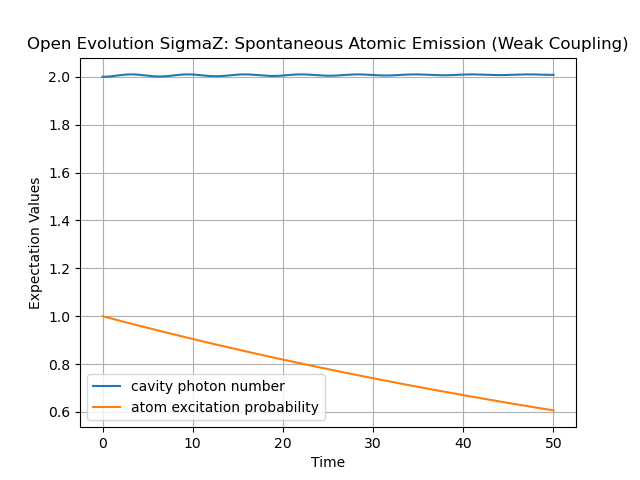
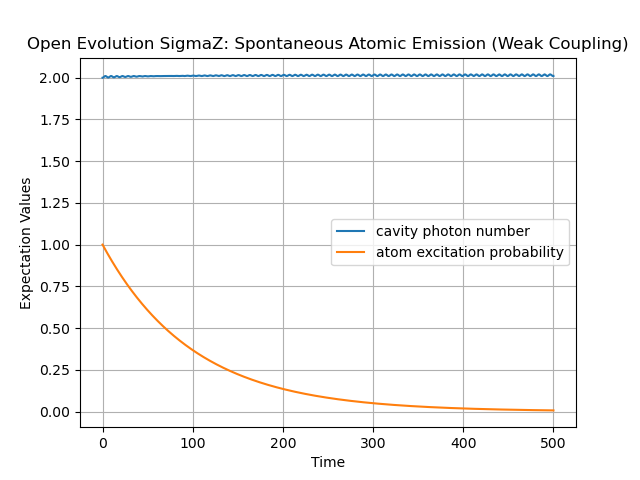
Correctly adds coherence measures to open sigma_z Hamiltonian simulation.

diff --git a/Research Project/Code/SigZ_Open.py b/Research Project/Code/SigZ_Open.py
@@ -5,7 +5,7 @@ import numpy as np
 
 ############################## SETUP ######################################
 
-tlist = np.linspace(0.0, 50.0, 2000)
+tlist = np.linspace(0.0, 500.0, 2000)
 
 # constants
 w = 1.0
@@ -59,12 +59,14 @@ sim_open_tls = TLSQHOSimulator(H, psi0, L_tls, e_ops, times=tlist)
 results_open_tls = sim_open_tls.evolve()
 expect_open_tls = sim_open_tls.expect(results_open_tls)
 neg_tls = sim_open_tls.negativity(results_open_tls)
+coh_tls = sim_open_tls.rel_coherence(results_open_tls)
 
 # QHO
 sim_open_qho = TLSQHOSimulator(H, psi0, L_qho, e_ops, times=tlist)
 results_open_qho = sim_open_qho.evolve()
 expect_open_qho = sim_open_qho.expect(results_open_qho)
 neg_qho = sim_open_qho.negativity(results_open_qho)
+coh_qho = sim_open_qho.rel_coherence(results_open_qho)
 
 # TLS + QHO
 L_tlsqho = L_tls + L_qho
@@ -91,6 +93,15 @@ sim_open_tls.plot(
     ["Negativity"],
 )
 
+sim_open_tls.plot(
+    coh_tls,
+    "Open Evolution SigmaZ: Coherence of Atomic Emission (Weak Coupling)",
+    "Coherence",
+    "OQS_TLS_coh",
+    "SigZ",
+    ["Coherence"],
+)
+
 sim_open_qho.plot(
     expect_open_qho,
     "Open Evolution SigmaZ: QHO Photon Loss/Gain (Weak Coupling)",
@@ -102,12 +113,22 @@ sim_open_qho.plot(
 
 sim_open_tls.plot(
     neg_qho,
-    "Open Evolution SigmaZ: Negativity of QHO Photon Loss (Weak Coupling)",
+    "Open Evolution SigmaZ: Negativity of QHO Photon Loss/Gain (Weak Coupling)",
     "Negativity",
     "OQS_QHO_Neg",
     "SigZ",
     ["Negativity"],
 )
+
+sim_open_qho.plot(
+    coh_qho,
+    "Open Evolution JCM: Coherence of QHO Photon Loss/Gain (Weak Coupling)",
+    "Coherence",
+    "OQS_QHO_coh",
+    "SigZ",
+    ["Coherence"],
+)
+
 sim_open_tlsqho.plot(
     expect_open_tlsqho,
     "Open Evolution SigmaZ: TLS and QHO Decay (Weak Coupling)",
